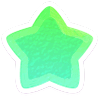
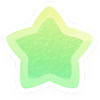
Change star, fix settings not changing, set multiple options as default, add query string

diff --git a/public/javascripts/surpriseGuestFunctions.js b/public/javascripts/surpriseGuestFunctions.js
@@ -1,13 +1,13 @@
 $(document).ready(function() {
 	multipleOptions = document.cookie.split('; ').find(row => row.startsWith("sgpMultipleOptions"));
 	if (multipleOptions) {
-		multipleOptions.split("=")[1] === 'true';
+		multipleOptions = multipleOptions.split("=")[1] === 'true';
 	} else {
 		$('#settings').collapse('show');
-		multipleOptions = false;
+		multipleOptions = true;
 	}
 	useItems = document.cookie.split('; ').find(row => row.startsWith("sgpUseItems"))
-	useItems = useItems ? useItems.split("=")[1] === 'true' : false;
+	useItems = useItems ? useItems.split("=")[1] === 'true' : true;
 
 	if (multipleOptions) {
 		$("#allActions").prop('checked', true);
@@ -17,12 +17,17 @@ $(document).ready(function() {
 	if (useItems) {
 		$("#useItems").prop('checked', true);
 	}
+	const urlParams = new URLSearchParams(window.location.search);
+	const character = urlParams.get('character');
+	if (character) {
+		openCharacterTab(character);
+	}
 
 	$("#shortActions").click(() => enableOptions(false));
 	$("#allActions").click(() => enableOptions(true));
 	$("#useItems").click(() => enableItemOptions($("#useItems").is(":checked")));
 	enableOptions($("#allActions").is(":checked"));
-	$('.big-nav>.nav-link, .small-nav>.nav-link').click(function() {syncButtons($(this))});
+	$('.big-nav>.nav-link, .small-nav>.nav-link').click(function() {syncButtons($(this), urlParams)});
 });
 
 function enableOptions(enableAll) {
@@ -64,12 +69,23 @@ function enableItemOptions(allowItems) {
 	}
 }
 
-function syncButtons(button) {
+function syncButtons(button, urlParams) {
 	if (button.parent().hasClass('big-nav')) {
 		$('.small-nav>.nav-link.active').removeClass('active');
 		$('#'+button.attr('id')+'Small').addClass('active');
+		urlParams.set('character', button.attr('id').replace('Pill', ''));
+		console.log(urlParams)
 	} else {
 		$('.big-nav>.nav-link.active').removeClass('active');
 		$('#'+button.attr('id').replace('Small', '')).addClass('active');
+		urlParams.set('character', button.attr('id').replace('PillSmall', ''));
 	}
+	window.history.replaceState(null, null, `${window.location.pathname}${urlParams.toString()===''?'':'?'+urlParams.toString()}`);
+}
+
+function openCharacterTab(character) {
+	$('.big-nav>.nav-link.active').removeClass('active');
+	$('#'+character+'Pill').addClass('active');
+	$('.small-nav>.nav-link.active').removeClass('active');
+	$('#'+character+'PillSmall').addClass('active');
 }

diff --git a/public/stylesheets/spg.css b/public/stylesheets/spg.css
@@ -104,15 +104,18 @@
 #SolomonPill.active, #SolomonPillSmall.active {
   background-color: var(--solomon);
 }
-
-.gift-icon {
-  width: 64px;
-  height: 64px;
+.gift{
+    position: relative;
+    width:calc(100%/4);
+    height:calc(100%/4);
 }
-
-@media screen and (max-width: 720px) {
-  .gift-icon {
-    width: 32px;
-    height: 32px;
-  }
+.small-gift{
+    position: relative;
+    width:calc(100%/3);
+    height:calc(100%/4);
+}
+.gift:before, .small-gift:before{
+    content: "";
+    display: block;
+    padding-top: 100%;
 }
